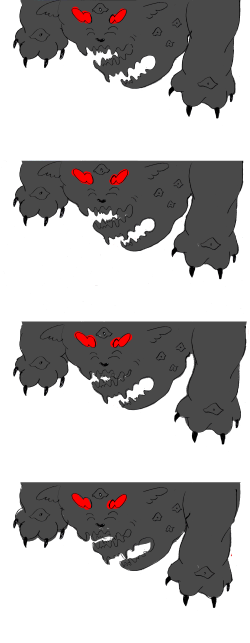
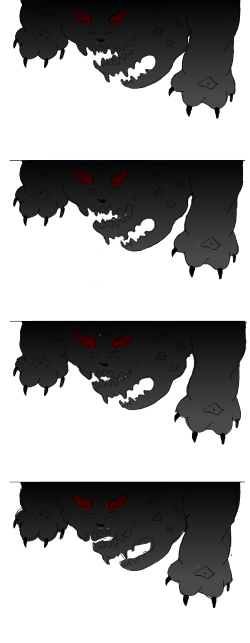
yo

diff --git a/Source/Game/Models/Enviroment/Map.cs b/Source/Game/Models/Enviroment/Map.cs
@@ -206,6 +206,7 @@ namespace Game.Models.Enviroment
                     RenderSize = new Vector2f(Tile.TILE_SIZE * 3, Tile.TILE_SIZE * 3)
                 };
             }
+            
 
             for (int y = 0; y < MAX_Y; y++) {
                 for (int x = 0; x < MAX_X; x++) {
@@ -214,7 +215,9 @@ namespace Game.Models.Enviroment
                     }
                 }
             }
-
+            foreach (var components in bigBoss.GetDrawableComponents()) {
+                yield return components;
+            }
             foreach (var lightComponent in this.light) {
                 foreach (var component in lightComponent.GetDrawableComponents()) {
                     yield return component;
@@ -268,10 +271,6 @@ namespace Game.Models.Enviroment
                                 yield return component;
                             }
                         }
-                    }
-
-                    foreach(var components in bigBoss.GetDrawableComponents()) {
-                        yield return components;
                     }
                 }
             }

diff --git a/Source/Game/Timing/EventSystem.cs b/Source/Game/Timing/EventSystem.cs
@@ -33,6 +33,7 @@ namespace Game.Timing {
         {
             lock (GameEvents) {
                 GameEvents.Add(new Event(Program.map.Girl.Move, 8, true));
+                GameEvents.Add(new Event(Program.map.UpdateBigBossAnimations, 125, true));
                 GameEvents.Add(new Event(Program.map.UpdateFogPositions, 8, true));
                 GameEvents.Add(new Event(Program.map.UpdateFogAnimations, 250, true));
                 GameEvents.Add(new Event(Program.map.UpdateSmushyAnimations, 100, true));
@@ -47,6 +48,7 @@ namespace Game.Timing {
         public void AddTutorialEvents()
         {
             lock (GameEvents) {
+                GameEvents.Add(new Event(Program.map.UpdateBigBossAnimations, 125, true));
                 GameEvents.Add(new Event(Program.map.Girl.Move, 8, true));
                 GameEvents.Add(new Event(Program.map.UpdateFogAnimations, 250, true));
                 GameEvents.Add(new Event(Program.map.UpdateSmushyAnimations, 100, true));

diff --git a/Source/Game/Models/Monster.cs b/Source/Game/Models/Monster.cs
@@ -34,7 +34,7 @@ namespace Game.Models
             yield return new DrawableComponent() {
                 TextureName = "BigBoss.png",
                 RenderSize = new Vector2f(300, 150),
-                Position = new Vector2f(this.X-150,this.Y-75),
+                Position = new Vector2f(this.X-150,this.Y-120),
                 Rect = new IntRect(0, 159 * animationStep, 250,  159)
             };
         }
